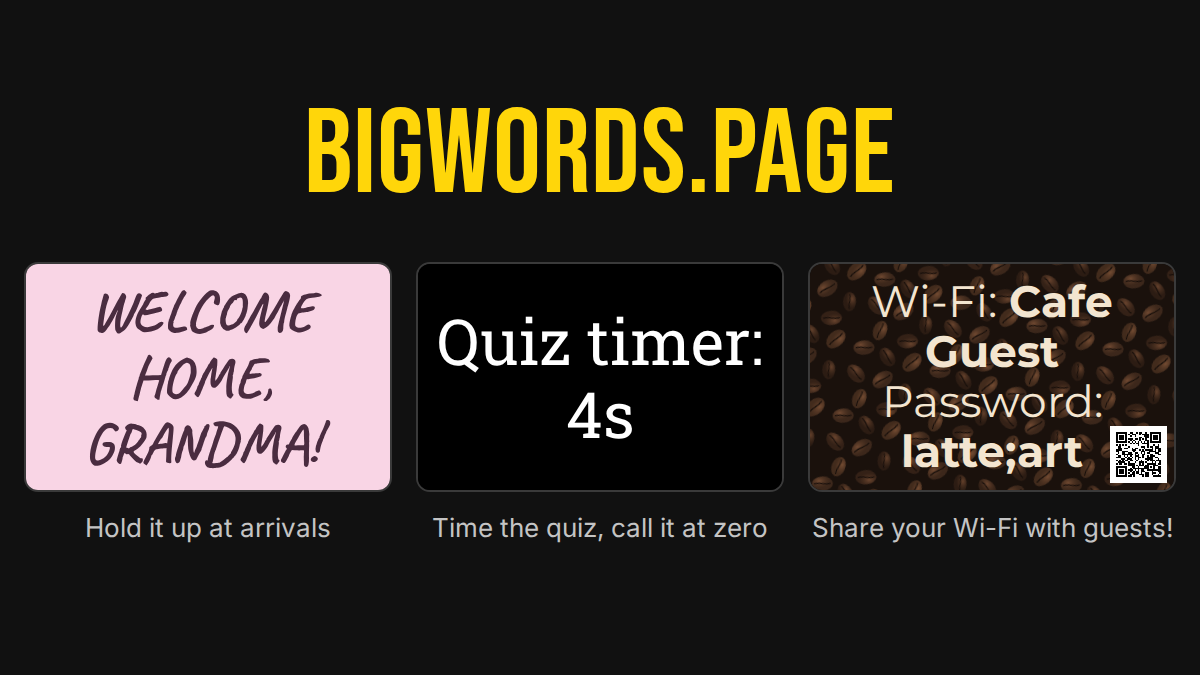
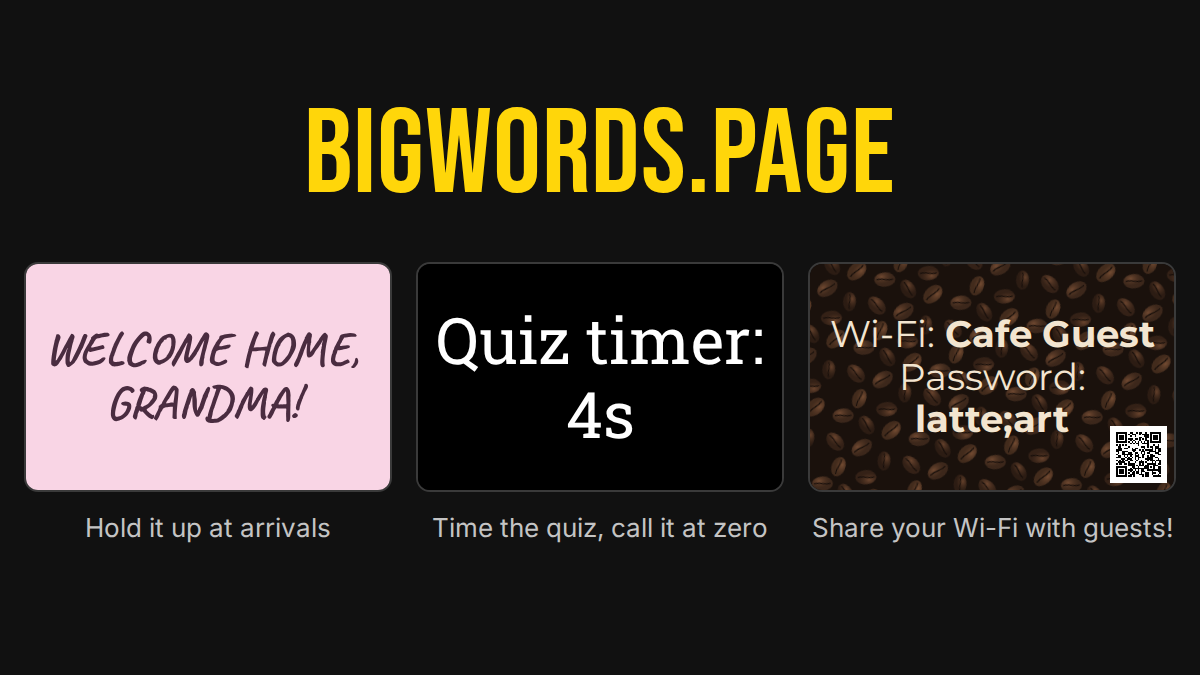
Only break lines where the message does

diff --git a/src/home-markup.ts b/src/home-markup.ts
@@ -20,9 +20,9 @@ export interface Example {
  * `more` sit behind a "More use cases" button. Every card is a working link.
  */
 export const examples = (): Example[] => [
-  { title: 'Arrivals sign', fragment: '**WELCOME%20HOME,%20GRANDMA!**&bg=f9d5e5&fg=4a2c40&font=6&anim=pulse' },
-  { title: 'Quiz timer', fragment: 'Quiz%20timer:%0A%7Bcountdown%7D&bg=000000&fg=ffffff&font=3&timer=15m&zero=Pencils%20down' },
[1 lines of base64/hex data omitted]
+  { title: 'Arrivals sign', fragment: '**WELCOME%20HOME,%0AGRANDMA!**&bg=f9d5e5&fg=4a2c40&font=6&anim=pulse' },
+  { title: 'Quiz timer', fragment: 'Quiz%20timer:%0A%7Bcountdown%7D&bg=000000&fg=ffffff&font=3&timer=30s&zero=**Pencils%0Adown%21%2A%2A' },
[1 lines of base64/hex data omitted]
   { title: 'New Year countdown', fragment: `Happy%20New%20Year%20in%0A{countdown}&until=${nextNewYear()}&font=5&cdfmt=colon&zero=Happy%20New%20Year!` },
   { title: 'On air', fragment: 'ON%20AIR&bg=b00020&fg=ffffff&font=4&anim=pulse' },
   { title: 'Gate or room sign', fragment: '%23%20Gate%2012%0ABoarding%20now&bg=0b3d91&fg=ffffff&font=2' },
@@ -35,7 +35,7 @@ export const examples = (): Example[] => [
 ];
 
 const STEPS: [string, string][] = [
-  ['Type a message after the #. Spaces are %20.', 'Hello%20World'],
+  ['Type a message after the #.', 'Hello%20World'],
   ['Add settings with &key=value.', 'Hello%20World&bg=000000&fg=ffd60a&font=4'],
   ['%0A starts a new line. # makes a heading (write it as %23).', '%23%20Room%20204%0AMeeting%20in%20progress'],
   ['|| splits the message into slides.', 'Coffee%20%E2%98%95||Tea%20%F0%9F%8D%B5||Water%20%F0%9F%92%A7&interval=2'],
@@ -60,6 +60,16 @@ const esc = (s: string) => s.replace(/&/g, '&amp;').replace(/</g, '&lt;').replac
 export function homeMarkup(origin: string): string {
   const url = (fragment: string) => esc(`${origin}/#${fragment}`);
   const href = (path: string, fragment: string) => esc(`${path}#${fragment}`);
+  // A step's URL as you'd type it: spaces and emoji as themselves, while the
+  // escapes you still have to type (new line, #, & and %) stay encoded.
+  const typed = (fragment: string) =>
+    esc(`${origin}/#${fragment.replace(/(?:%[0-9a-f]{2})+/gi, (run) => {
+      try {
+        return decodeURIComponent(run).replace(/[\n#&%]/g, encodeURIComponent);
+      } catch {
+        return run;
+      }
+    })}`);
   const card = (ex: Example) =>
     `<div class="example"><a href="${href('/', ex.fragment)}" style="text-decoration:none" aria-label="Open example: ${esc(ex.title)}">` +
     `<div class="thumb"><div></div></div><div class="meta"><strong>${esc(ex.title)}</strong><code>${url(ex.fragment)}</code></div></a>` +
@@ -74,7 +84,7 @@ export function homeMarkup(origin: string): string {
     `<div class="hero-actions"><a class="btn btn-primary" href="/editor">Open the editor</a><a class="btn" href="/docs">Read the docs</a><a class="btn" href="${href('/', HERO)}">View fullscreen</a></div></div>` +
     `<div class="demo"><div class="demo-frame"><div></div></div><div class="demo-url"><a href="${href('/', HERO)}">${url(HERO)}</a></div></div></section>` +
     '<section class="section"><h2>Make one by hand</h2><p>Using the built-in editor is easiest, but generate a link however you like.</p><ol class="steps">' +
-    STEPS.map(([text, frag]) => `<li><div><p>${esc(text)}</p><a class="url" href="${href('/', frag)}">${url(frag)}</a></div></li>`).join('') +
+    STEPS.map(([text, frag]) => `<li><div><p>${esc(text)}</p><a class="url" href="${href('/', frag)}">${typed(frag)}</a></div></li>`).join('') +
     '</ol></section>' +
     `<section class="section"><h2>Use cases</h2><p>Every card is a working link. Open it fullscreen, or load it into the editor and make it yours.</p><div class="examples">${shown}</div>` +
     `<details class="more-examples"><summary class="btn"><span class="when-closed">More use cases</span><span class="when-open">Fewer use cases</span></summary><div class="examples">${more}</div></details></section>` +

diff --git a/src/render/text.ts b/src/render/text.ts
@@ -133,7 +133,8 @@ function parseInline(s: string, style: Style, out: Run[]): void {
     // `code`: contents were protected by resolveEscapes and render as typed.
     if (s[k] === '`') {
       const end = s.indexOf('`', k + 1);
-      if (end > k + 1) {
+      const newline = s.indexOf('\n', k + 1);
+      if (end > k + 1 && (newline === -1 || end < newline)) {
         flush();
         out.push({ text: s.slice(k + 1, end), ...style, code: true });
         k = end + 1;
@@ -210,20 +211,48 @@ function finalizeRuns(runs: Run[]): Run[] {
   return out;
 }
 
-/** Render one slide's (escape-resolved) source into lines. */
+/** Split runs at the line breaks inside them, one run list per line. */
+function splitRunLines(runs: Run[]): Run[][] {
+  const lines: Run[][] = [[]];
+  for (const run of runs) {
+    run.text.split('\n').forEach((text, i) => {
+      if (i > 0) lines.push([]);
+      if (text) lines[lines.length - 1].push({ ...run, text });
+    });
+  }
+  return lines;
+}
+
+/**
+ * Render one slide's (escape-resolved) source into lines. As in Markdown,
+ * consecutive lines form a paragraph and emphasis can span its line breaks;
+ * a blank line or a heading ends the paragraph.
+ */
 export function parseSlide(src: string): Slide {
-  const lines: Line[] = src.split(/\r\n|\r|\n/).map((raw) => {
-    let level: 0 | 1 | 2 = 0;
-    let text = raw;
+  const lines: Line[] = [];
+  let para: string[] = [];
+  const endParagraph = () => {
+    if (!para.length) return;
+    const runs: Run[] = [];
+    parseInline(para.join('\n'), { bold: false, italic: false }, runs);
+    for (const lineRuns of splitRunLines(runs)) lines.push({ level: 0, runs: finalizeRuns(lineRuns) });
+    para = [];
+  };
+  for (const raw of src.split(/\r\n|\r|\n/)) {
     const m = /^(#{1,2}) +(.*)$/.exec(raw);
     if (m) {
-      level = m[1].length as 1 | 2;
-      text = m[2];
+      endParagraph();
+      const runs: Run[] = [];
+      parseInline(m[2], { bold: false, italic: false }, runs);
+      lines.push({ level: m[1].length as 1 | 2, runs: finalizeRuns(runs) });
+    } else if (raw.trim() === '') {
+      endParagraph();
+      lines.push({ level: 0, runs: raw ? finalizeRuns([{ text: raw, bold: false, italic: false }]) : [] });
+    } else {
+      para.push(raw);
     }
-    const runs: Run[] = [];
-    parseInline(text, { bold: false, italic: false }, runs);
-    return { level, runs: finalizeRuns(runs) };
-  });
+  }
+  endParagraph();
   const hasCountdown = lines.some((l) => l.runs.some((r) => r.countdown));
   return { lines, hasCountdown };
 }

diff --git a/test/text.test.ts b/test/text.test.ts
@@ -30,6 +30,27 @@ describe('text pipeline', () => {
     ]);
   });
 
+  it('carries emphasis across the line breaks of a paragraph', () => {
+    const [slide] = parseMessage('**WELCOME HOME,\nGRANDMA!**');
+    expect(slide.lines.map((l) => l.runs)).toEqual([
+      [{ text: 'WELCOME HOME,', bold: true, italic: false }],
+      [{ text: 'GRANDMA!', bold: true, italic: false }],
+    ]);
+    const [two] = parseMessage('a *b\nc* d');
+    expect(two.lines[1].runs[0]).toEqual({ text: 'c', bold: false, italic: true });
+  });
+
+  it('ends emphasis at a blank line or a heading', () => {
+    expect(parseMessage('**a\n\nb**')[0].lines.flatMap((l) => l.runs).some((r) => r.bold)).toBe(false);
+    expect(parseMessage('**a\n# b**')[0].lines.flatMap((l) => l.runs).some((r) => r.bold)).toBe(false);
+    expect(plain('**a\n\nb**')).toEqual(['**a\n\nb**']);
+  });
+
+  it('keeps code spans on one line', () => {
+    const [slide] = parseMessage('a `b\nc` d');
+    expect(slide.lines.flatMap((l) => l.runs).some((r) => r.code)).toBe(false);
+  });
+
   it('leaves unmatched markers alone', () => {
     expect(plain('2 * 3 = 6')).toEqual(['2 * 3 = 6']);
     expect(plain('#nospace')).toEqual(['#nospace']);

diff --git a/src/editor/editor.ts b/src/editor/editor.ts
@@ -722,7 +722,7 @@ export function mountEditor(app: HTMLElement): { destroy(): void } {
 
   const cdfmt = options(h('select', { id: uid('cdfmt') }), CD_FORMATS, { label: 'Labels (2d 14h 06m 32s)', colon: 'Colons (02:14:06:32)' });
   const zeroSel = options(h('select', { id: uid('zero') }), ['freeze', 'hide', 'message'], { freeze: 'Freeze at zero', hide: 'Hide', message: 'Show a message' });
-  const zeroMsg = h('input', { type: 'text', class: 'grow', placeholder: 'Message shown at zero', 'aria-label': 'Message shown at zero' });
+  const zeroMsg = h('textarea', { class: 'zero-msg', rows: '2', spellcheck: 'true', placeholder: 'Message shown at zero', 'aria-label': 'Message shown at zero' });
   const cdHint = h('p', { class: 'hint' });
   const timeZone = Intl.DateTimeFormat().resolvedOptions().timeZone || 'local time';
 
@@ -814,7 +814,8 @@ export function mountEditor(app: HTMLElement): { destroy(): void } {
     untilPanel,
     timerPanel,
     row(label('Format', cdfmt.id), cdfmt),
-    row(label('At zero', zeroSel.id), zeroSel, zeroMsg),
+    row(label('At zero', zeroSel.id), zeroSel),
+    zeroMsg,
     cdHint,
   );
 

diff --git a/src/render/display.ts b/src/render/display.ts
@@ -172,8 +172,9 @@ function inkOverhang(block: HTMLElement): [number, number, number, number] {
       let j = i;
       let text = '';
       while (j < chars.length && !isSpace(chars[j].c) && chars[j].font === chars[i].font) text += chars[j++].c;
-      const atStart = isSpace(chars[i - 1]?.c); // may begin a wrapped line
-      const atEnd = isSpace(chars[j]?.c); // may end a wrapped line
+      // Lines never wrap, so only a line's first and last runs reach its edges.
+      const atStart = i === 0;
+      const atEnd = j === chars.length;
       if (atStart || atEnd || firstLine || lastLine) {
         const ink = measureInk(ctx, text, chars[i].font, fontReady(chars[i].font));
         if (atStart) left = Math.max(left, ink.left * em);

diff --git a/test/state.test.ts b/test/state.test.ts
@@ -21,6 +21,14 @@ describe('fragment', () => {
     expect(parseFragment('#100%25').message).toBe('100%');
   });
 
+  it('encodes trailing punctuation so linkifiers keep it in the link', () => {
+    const f = serializeFragment({ message: 'Hello, **world**!', params: {} }, []);
+    expect(f).toBe('Hello,%20**world%2A%2A%21');
+    expect(serializeFragment({ message: 'Wait...', params: {} }, [])).toBe('Wait%2E%2E%2E');
+    expect(serializeFragment({ message: 'Hi!', params: { size: '3' } }, ['size'])).toBe('Hi!&size=3');
+    expect(parseFragment(f).message).toBe('Hello, **world**!');
+  });
+
   it('handles a fragment with no message', () => {
     const s = parseFragment('#&bg=ff0000');
     expect(s.message).toBe('');

diff --git a/src/state/fragment.ts b/src/state/fragment.ts
@@ -72,5 +72,9 @@ export function serializeFragment(state: State, order: readonly string[]): strin
   for (const key of keys) {
     parts.push(`${key}=${encodeComponent(state.params[key])}`);
   }
-  return parts.join('&');
+  // Chat apps and linkifiers end a link before trailing punctuation, so a
+  // link ending in "!" or "." would lose it. Encode any such tail.
+  return parts.join('&').replace(/[!'()*,.:;?~]+$/, (tail) =>
+    [...tail].map((c) => `%${c.charCodeAt(0).toString(16).toUpperCase()}`).join(''),
+  );
 }

diff --git a/src/styles/display.css b/src/styles/display.css
@@ -80,13 +80,9 @@
   margin: auto;
   text-align: center;
   line-height: 1.15;
-  white-space: pre-wrap;
-  overflow-wrap: normal;
-  word-break: normal;
+  /* Only the message's own line breaks: text never wraps. */
+  white-space: pre;
   font-kerning: normal;
-}
-.bw-locked .bw-block {
-  overflow-wrap: anywhere;
 }
 .bw-line {
   min-height: 1.15em;
@@ -177,7 +173,6 @@
 .bw-mode-height .bw-block {
   margin: 0;
   flex-shrink: 0;
-  white-space: pre;
   will-change: transform;
 }
 .bw-mode-width .bw-block {

diff --git a/src/styles/editor.css b/src/styles/editor.css
@@ -196,6 +196,9 @@ details.group[open] > summary::after {
   font-family: var(--mono);
   line-height: 1.45;
 }
+.page-editor textarea.zero-msg {
+  min-height: 0;
+}
 .page-editor input[type='number'] {
   width: 84px;
 }

diff --git a/docs/REFERENCE.md b/docs/REFERENCE.md
@@ -1,6 +1,6 @@
 # BIGWORDS.PAGE reference
 
-BIGWORDS.PAGE shows a message as large as the screen allows. Everything about the display lives in the URL, so a link *is* the display. There are no accounts and no backend, and nothing is stored anywhere.
+BIGWORDS.PAGE shows a message as large as the screen allows. Everything about the display is in the URL, so sharing the link shares the display. There are no accounts and no backend, and nothing is stored anywhere.
 
 The [editor]({origin}/editor) is the easiest way to make a display. All of the URL parameters are documented here, so generating links is easy too.
 
@@ -60,7 +60,9 @@ Use standard percent-encoding.
 | `{` `}` | `%7B` `%7D` | Optional |
 | `\` | `%5C` | Optional |
 
-When building a URL yourself, you only strictly need to encode spaces, new lines, `&` and `%`. The editor always produces fully encoded URLs.
+You can type spaces and emoji into the address bar as they are. The browser encodes them, and a link copied from the address bar has them encoded. New lines, `&`, `#` and `%` in the message always have to be written encoded. The editor always produces fully encoded URLs.
+
+Messaging apps and other tools that turn URLs into links usually stop the link before punctuation at the very end, so `#Hello!` gets linked as `#Hello`. Encode punctuation at the end of a URL, such as `!` as `%21` or `.` as `%2E`. The editor does this for you.
 
 ## Parameters
 
@@ -86,7 +88,7 @@ When building a URL yourself, you only strictly need to encode spaces, new lines
 | `until` | Countdown target | ISO 8601 date and time (`2026-12-31T23:59:00`) | *(none)* |
 | `timer` | Countdown length, from when the page opens. Use `until` or `timer`, not both. | Seconds (`14400`), or `d`, `h`, `m`, `s` amounts (`4h`, `1h30m`) | *(none)* |
 | `cdfmt` | Countdown format | `label`, `colon` | `label` |
-| `zero` | What happens at zero | `freeze`, `hide`, or a replacement message | `freeze` |
+| `zero` | What happens at zero | `freeze`, `hide`, or a replacement message, which can use formatting and line breaks like the main one | `freeze` |
 | `interval` | Seconds per slide | Whole number from 1 to 86400 (larger values count as 86400) | `5` |
 | `wake` | Keep the screen awake | `on`, `off` | `on` |
 
@@ -94,7 +96,7 @@ An invalid value (bad hex, unknown font, impossible date…) quietly falls back 
 
 ## Formatting
 
-There is one rendering mode. A small markdown subset always applies; a message without any markdown just shows as plain text.
+Messages support a small part of Markdown. A message without any formatting shows as plain text.
 
 | Write | Get |
 |---|---|
@@ -107,8 +109,10 @@ There is one rendering mode. A small markdown subset always applies; a message w
 | `## text` at the start of a line | Heading, 1.5× the base size |
 | `%0A` | Line break |
 
-Nothing else: no lists, tables, links, quotes, images or rules. Remember that `#` must be written `%23` in a URL:
+Other Markdown, such as lists, links and images, shows as plain text. In a URL, write a heading's `#` as `%23`:
 [`{origin}/#%23%20Gate%2012%0ABoarding%20now`]({origin}/#%23%20Gate%2012%0ABoarding%20now)
+
+**Formatting can span lines.** Bold, italic and strikethrough carry over line breaks, so `**WELCOME HOME,%0AGRANDMA!**` is bold on both lines. A blank line or a heading ends them, and a marker without a matching one is shown as typed.
 
 **Underscores inside words are left alone**, as in standard Markdown, so names like `Home_Guest_5G`, `snake_case` or `first_name@example.com` show exactly as typed. Only an underscore at a word boundary starts or ends emphasis.
 
@@ -159,7 +163,7 @@ All fonts ship with the site, each next to its license file. A font is only down
 
 ## Size
 
-With `size=auto` (the default), the text grows to the largest size at which the whole block fits inside the display minus its padding. Headings count at their full size. Text wraps at word boundaries and your line breaks are always kept. The size is recalculated whenever the window is resized or rotated, and each slide is fitted on its own.
+With `size=auto` (the default), the text grows to the largest size at which the whole block fits inside the display minus its padding. Headings count at their full size. Text never wraps on its own: each line of the message stays on one line, so long lines make the text smaller. Add line breaks (`%0A`) where you want them. The size is recalculated whenever the window is resized or rotated, and each slide is fitted on its own.
 
 | Value | Meaning |
 |---|---|
@@ -285,7 +289,7 @@ The editor counts the URL's characters and warns as it nears about 2,000. Some m
 | [Location](#location) | `geo:` | Opens a maps app (Android) |
 | [Plain text](#plain-text) | Anything else | Shows the text |
 
-The editor's **QR code** section has a form for each type and writes the URL for you. Building one yourself, follow the usual [encoding](#encoding) inside the `qr` value too: spaces are `%20` and `&` is `%26`.
+The editor's **QR code** section has a form for each type and writes the URL for you. If you build one yourself, [encode](#encoding) the `qr` value like the rest of the URL, with `%26` for `&`.
 
 ### Placement and size
 
@@ -389,7 +393,7 @@ Any value that isn't one of the above, such as `qr=Table%2012`, goes in the code
 | `full` | Fits inside the display, letterboxed; text on top |
 | `above` / `below` | Placed above or below the text, which fits into the space left |
 
-The image loads straight from its host, which is never told which page asked for it. Like any image on the web, the host does see the viewing device's IP address and browser, and with `refresh` it sees a request every time the page reloads. Some hosts refuse to serve images to other sites, so an image that opens fine in its own tab can still fail here. If an image fails, the viewer simply leaves it out; the editor shows a warning.
+The image loads straight from its host, which is never told which page asked for it. Like any image on the web, the host does see the viewing device's IP address and browser, and with `refresh` it sees a request every time the page reloads. Some hosts refuse to serve images to other sites, so an image that opens fine in its own tab can still fail here. If an image fails, the viewer leaves it out and the editor shows a warning.
 
 `refresh=N` reloads the page every N seconds. It's only useful when the image URL points at something that changes, such as a webcam snapshot.
 
